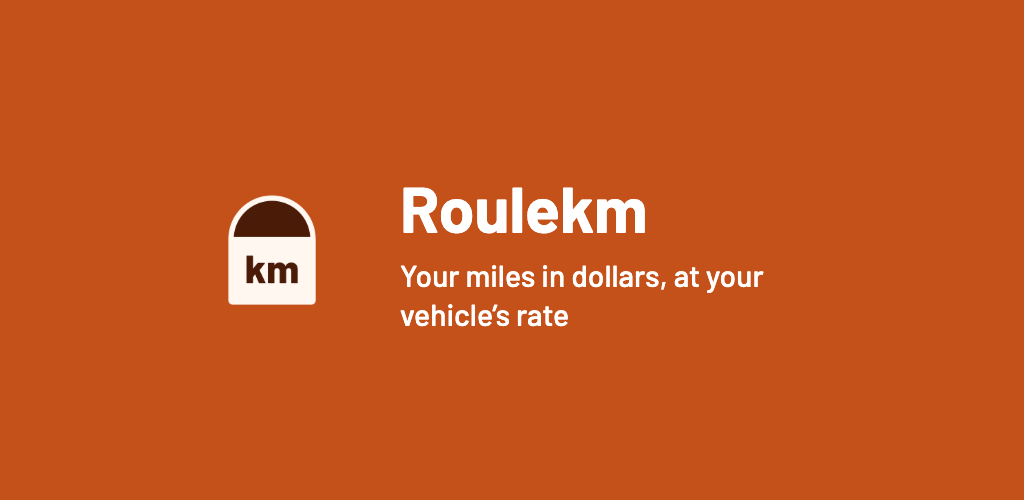
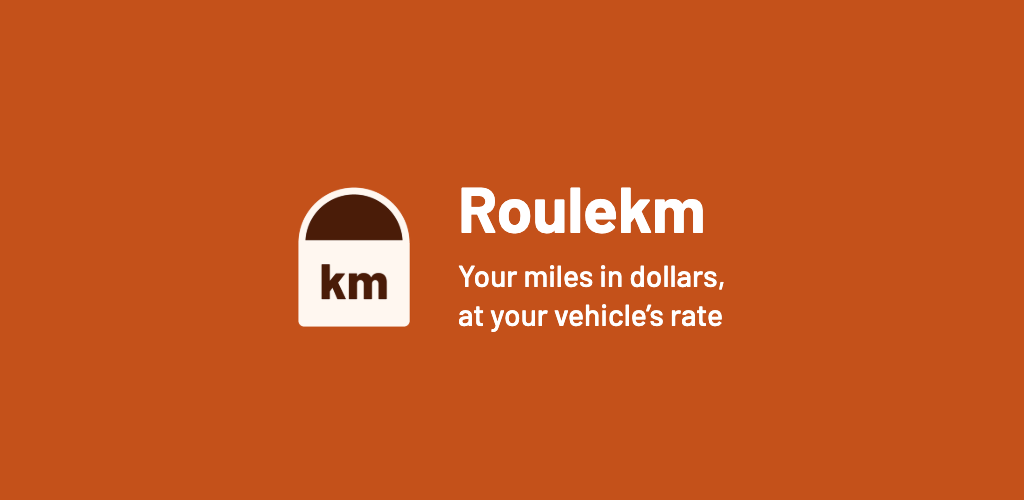
DAPP-380: the feature graphic's layout from the design review (DAPP-383); drop DAPP-381's and DAPP-382's files
The milestone mark at 112 × 140 (the 224 px icon), a 48 px gap, the caption balanced at build time (after the fonts
load), and a check that the icon's tile is the band's colour.

6beb4e4 was committed in the shared Roulekm workspace on top of DAPP-381's and DAPP-382's commits, which have their
own PRs. This tree is main plus DAPP-380's changes only, so this PR's diff no longer carries their files (no
force-push).

Changed region(s): [[0.2188, 0.36, 0.75, 0.66]]

diff --git a/apps/roulekm/test/screenshots_test.dart b/apps/roulekm/test/screenshots_test.dart
@@ -216,14 +216,40 @@ void main() {
   });
 
   testWidgets('the Play feature graphic: the icon, the name and caption 1 on the band', (tester) async {
-    final icon = await tester.runAsync(() async {
+    final (icon, corner) = (await tester.runAsync(() async {
       final codec = await instantiateImageCodec(File('store/android/fr-FR/images/icon.png').readAsBytesSync());
-      return (await codec.getNextFrame()).image;
-    });
-    addTearDown(icon!.dispose);
+      final image = (await codec.getNextFrame()).image;
+      return (image, (await image.toByteData())!.getUint32(0));
+    }))!;
+    addTearDown(icon.dispose);
+    // The icon's tile is the band's colour, so only the milestone shows (DAPP-383): a change to either would show it.
+    expect(corner, (band.toARGB32() & 0xFFFFFF) << 8 | 0xFF, reason: 'the icon tile (RGBA) is the band');
+    final captionStyle = style.copyWith(fontWeight: FontWeight.w500, fontSize: 30, height: 1.3, color: Colors.white);
     for (final locale in locales) {
-      final l10n = lookupRoulekmLocalizations(locale);
-      // Centred and clear of the edges, which Play crops in some places.
+      final caption = lookupRoulekmLocalizations(locale).storeCaption1;
+      // Balanced like the kit's StoreCaption: the narrowest width that keeps the line count. Measured at build time,
+      // once takeScreenshot has loaded the fonts.
+      double balanced() {
+        int linesAt(double width) {
+          final painter = TextPainter(
+            text: TextSpan(text: caption, style: captionStyle),
+            textDirection: TextDirection.ltr,
+          )..layout(maxWidth: width);
+          final lines = painter.computeLineMetrics().length;
+          painter.dispose();
+          return lines;
+        }
+
+        var width = 440.0;
+        final lines = linesAt(width);
+        while (linesAt(width - 2) == lines) {
+          width -= 2;
+        }
+        return width;
+      }
+
+      // DAPP-383: the mark (the 224 px icon's milestone, 112 × 140) runs from the cap of the name to the caption's
+      // last baseline; the group is centred, clear of the edges Play crops.
       final graphic = Directionality(
         textDirection: TextDirection.ltr,
         child: ColoredBox(
@@ -232,30 +258,32 @@ void main() {
             child: Row(
               mainAxisSize: MainAxisSize.min,
               children: [
-                ClipRRect(
-                  borderRadius: BorderRadius.circular(40),
-                  child: RawImage(image: icon, width: 176, height: 176),
-                ),
-                const SizedBox(width: 40),
-                SizedBox(
-                  width: 440,
-                  child: Column(
-                    mainAxisSize: MainAxisSize.min,
-                    crossAxisAlignment: CrossAxisAlignment.start,
-                    children: [
-                      Text('Roulekm', style: style.copyWith(fontSize: 64, color: Colors.white)),
-                      const SizedBox(height: 8),
-                      Text(
-                        l10n.storeCaption1,
-                        style: style.copyWith(
-                          fontWeight: FontWeight.w500,
-                          fontSize: 30,
-                          height: 1.3,
-                          color: Colors.white,
-                        ),
-                      ),
-                    ],
+                Padding(
+                  padding: const EdgeInsets.only(top: 14),
+                  child: SizedBox(
+                    width: 112,
+                    height: 140,
+                    child: OverflowBox(
+                      maxWidth: 224,
+                      maxHeight: 224,
+                      child: RawImage(image: icon, width: 224, height: 224),
+                    ),
                   ),
+                ),
+                const SizedBox(width: 48),
+                Column(
+                  mainAxisSize: MainAxisSize.min,
+                  crossAxisAlignment: CrossAxisAlignment.start,
+                  children: [
+                    Text('Roulekm', style: style.copyWith(fontSize: 64, color: Colors.white)),
+                    const SizedBox(height: 8),
+                    Builder(
+                      builder: (_) => SizedBox(
+                        width: balanced(),
+                        child: Text(caption, style: captionStyle),
+                      ),
+                    ),
+                  ],
                 ),
               ],
             ),

diff --git a/apps/roulekm/lib/main.dart b/apps/roulekm/lib/main.dart
@@ -15,9 +15,8 @@ import 'src/trips/recurring_screen.dart';
 import 'src/vehicles/vehicles_screen.dart';
 import 'src/year/year_screen.dart';
 
-/// Roulekm's config, from app-setup A1 (DAPP-133). Crash reports and analytics go out from release builds only, while
-/// the statistics switch is on (ADR 0005); Sentry names each release `roulekm@<version>+<build>`. The App Store id stays
-/// empty until the app has one.
+/// Roulekm's config, from app-setup A1 (DAPP-133). The Sentry DSN, PostHog key and App Store id stay empty until those
+/// exist: until then the app sends nothing.
 final roulekmConfig = AppConfig(
   slug: roulekmAppId,
   names: const {'fr': 'Roulekm – frais kilométriques', 'en': 'Roulekm – Mileage Log'},
@@ -40,10 +39,6 @@ final roulekmConfig = AppConfig(
   // section 13; DAPP-225, DAPP-306).
   revenueCatAppleKey: 'appl_MKQismejHtyMcwoHnZPrpSOUgDj',
   revenueCatGoogleKey: 'goog_GMsmpEWzeohPOsCRmxEhgzjuBZt',
-  // Public client keys too (ADR 0001 section 13): the roulekm Sentry project's DSN, EU (app-setup A9, DAPP-162), and
-  // the studio PostHog project's key, EU (DAPP-379).
-  sentryDsn: 'https://baa69a5369a51cdffdf785b6b20c7a67@o4512368558800896.ingest.de.sentry.io/4512402094620752',
-  postHogKey: 'phc_qTJc5YoBy42MNmq6baxZQkBCBdxo3GkQnokVJXWSabJC',
 );
 
 /// The app: onboarding on the first launch, then the home screen (DAPP-141).

diff --git a/apps/roulekm/test/app_test.dart b/apps/roulekm/test/app_test.dart
@@ -66,7 +66,7 @@ Future<void> save(WidgetTester tester, RoulekmData data, String label) async {
 }
 
 void main() {
-  test('the config is app-setup A1, with the RevenueCat, Sentry and PostHog keys', () {
+  test('the config is app-setup A1, with both RevenueCat keys and no other key yet', () {
     expect(roulekmConfig.problems, isEmpty);
     expect(roulekmConfig.slug, 'roulekm');
     expect(roulekmConfig.slug, roulekmAppId, reason: 'the data documents carry the same app id');
@@ -87,13 +87,9 @@ void main() {
     expect(roulekmConfig.entitlementId, 'pro');
     expect(roulekmConfig.revenueCatAppleKey, 'appl_MKQismejHtyMcwoHnZPrpSOUgDj');
     expect(roulekmConfig.revenueCatGoogleKey, 'goog_GMsmpEWzeohPOsCRmxEhgzjuBZt');
-    // Public client keys, made to ship in the app (ADR 0001 section 13): app-setup A9 (DAPP-162) and DAPP-379.
-    expect(
-      roulekmConfig.sentryDsn,
-      'https://baa69a5369a51cdffdf785b6b20c7a67@o4512368558800896.ingest.de.sentry.io/4512402094620752',
-    );
-    expect(roulekmConfig.postHogKey, 'phc_qTJc5YoBy42MNmq6baxZQkBCBdxo3GkQnokVJXWSabJC');
-    expect(roulekmConfig.appStoreId, isNull);
+    for (final key in [roulekmConfig.sentryDsn, roulekmConfig.postHogKey, roulekmConfig.appStoreId]) {
+      expect(key, isNull);
+    }
   });
 
   testWidgets('Roulekm loads in French, settings with backup included', (tester) async {

diff --git a/apps/roulekm/test/platform_test.dart b/apps/roulekm/test/platform_test.dart
@@ -14,11 +14,6 @@ void main() {
     }
   });
 
-  test('iOS: export compliance answered in the build (only the OS\'s exempt HTTPS)', () {
-    // Without it, every TestFlight build waits on the encryption question in App Store Connect (DAPP-381).
-    expect(plist, matches(RegExp(r'<key>ITSAppUsesNonExemptEncryption</key>\s*<false/>')));
-  });
-
   test('Android: the only permission is Play Billing, declared by the app itself', () {
     // Play Console only lets Richard create the in-app products once an uploaded bundle declares it (DAPP-238).
     final permissions = RegExp(r'<uses-permission\s+android:name="([^"]+)"').allMatches(manifest).map((m) => m.group(1));
